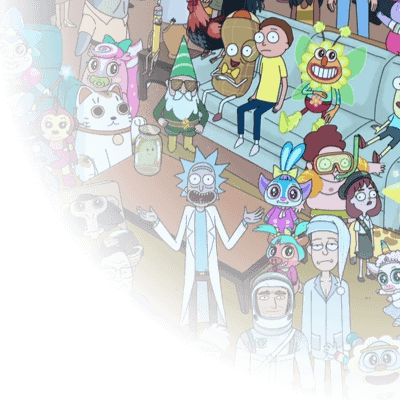
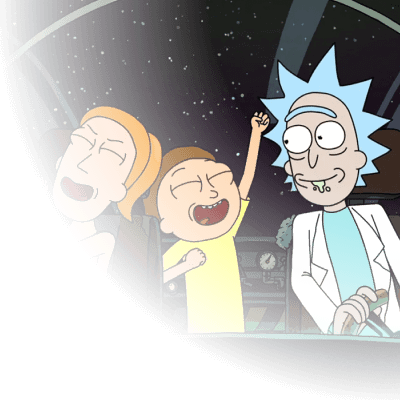
home-page: create favourites page-link-card

diff --git a/src/app/home/feature/home.page.component.ts b/src/app/home/feature/home.page.component.ts
@@ -28,5 +28,10 @@ export class HomePageComponent {
       imageSrc: "assets/home-locations-card-bg.png",
       link: APP_ROUTES.LOCATIONS,
     },
+    {
+      cardName: "Favourites",
+      imageSrc: "assets/home-favourites-card-bg.png",
+      link: APP_ROUTES.FAVOURITES,
+    },
   ];
 }
